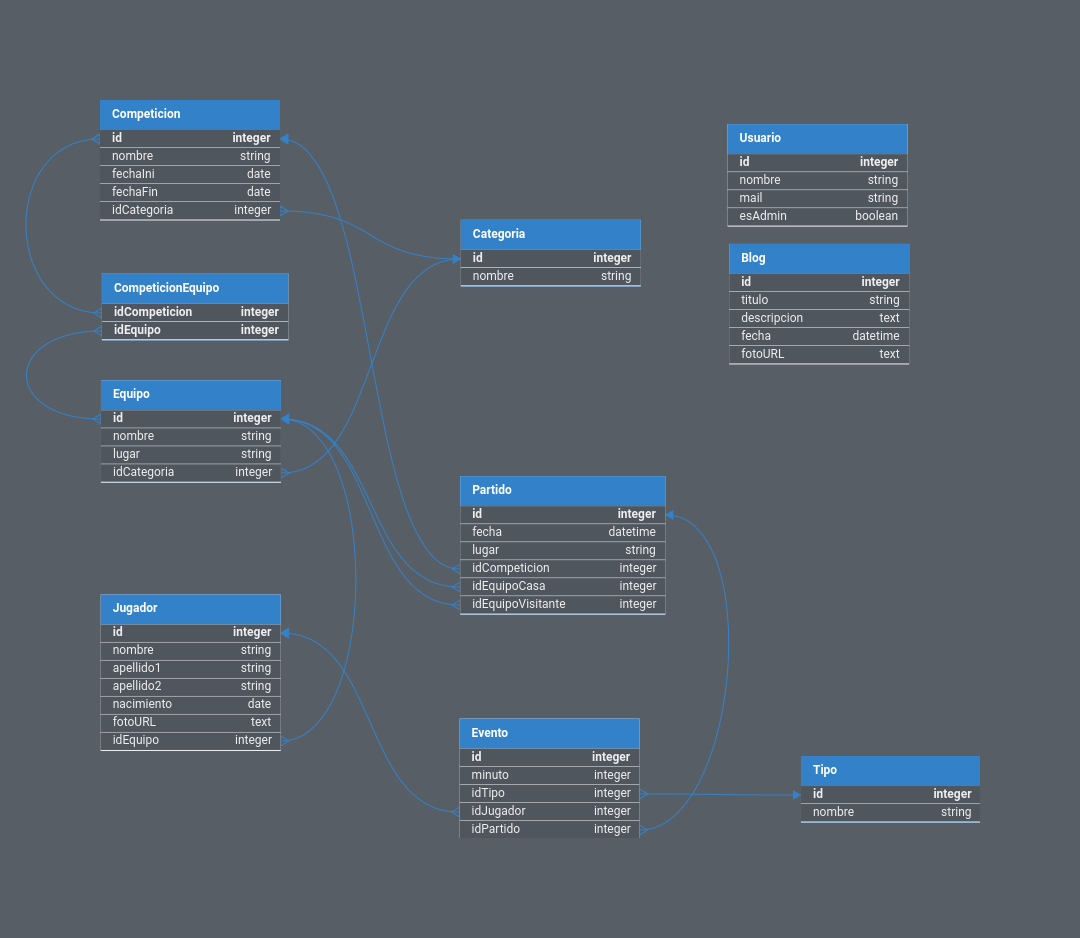
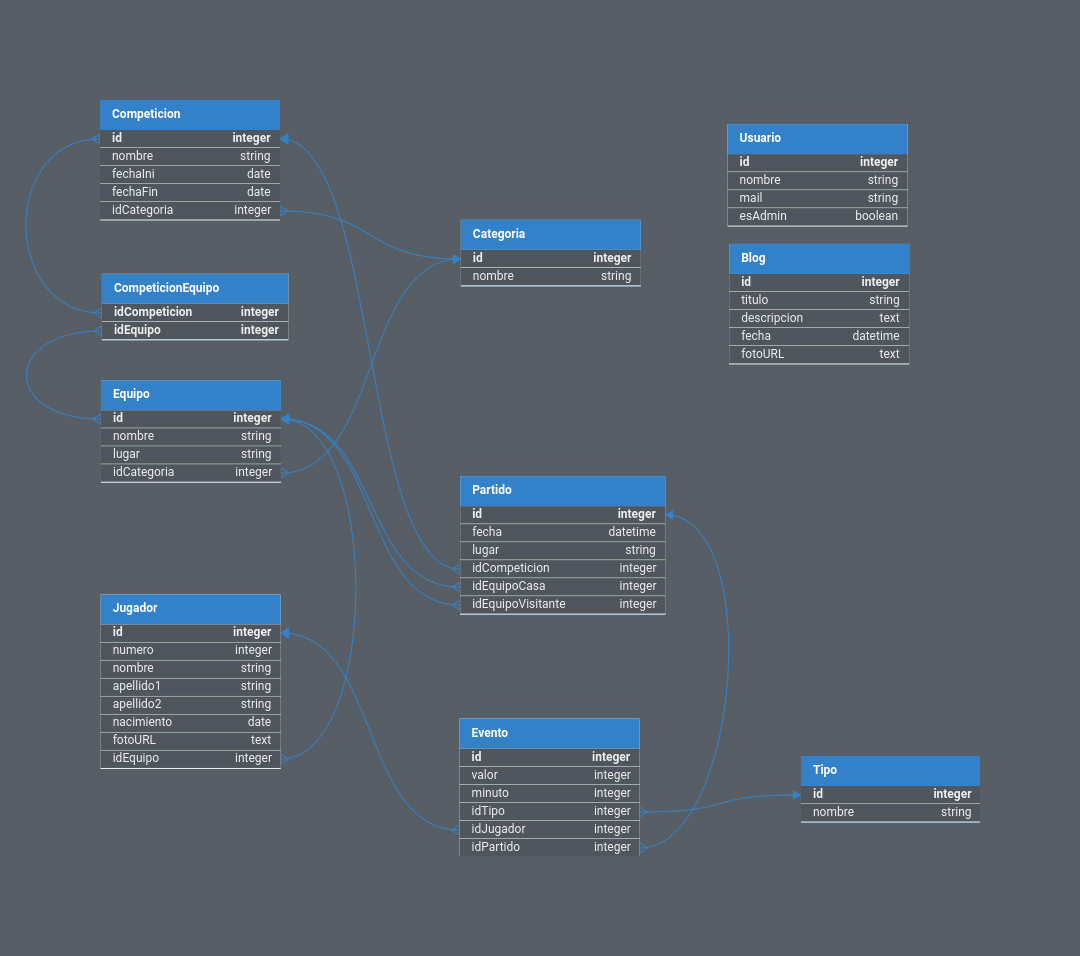
Reconstrucción n4 de la base de datos y avance en el segundo funcional

diff --git a/bd/README.md b/bd/README.md
@@ -1,46 +1,66 @@
 # Base de datos
-Se ha desarrollado una base de datos teniendo en cuenta los requisitos de la aplicación con
-     el primer funcional desarrollado después de hablar con el cliente. Esto incluye un [Modelo E/R](#modelo-er)
-     para poder determinar las relaciones entre todas las entidades, y un [Modelo relacional](#modelo-relacional)
-     en el que se determina el diseño final de la base de datos traduciendo el modelo E/R a tablas y
-     añadiendo los campos a estas.
+
+Se ha desarrollado una base de datos teniendo en cuenta los requisitos de la
+aplicación con el primer funcional desarrollado después de hablar con el
+cliente. Esto incluye un [Modelo E/R](#modelo-er) para poder determinar las
+relaciones entre todas las entidades, y un
+[Modelo relacional](#modelo-relacional) en el que se determina el diseño final
+de la base de datos traduciendo el modelo E/R a tablas y añadiendo los campos a estas.
 
 ## Modelos
 
 ### [Modelo E/R](./design/diagramaERCochinillos.drawio)
-Este modelo se ha desarrollado para observar las relaciones de manera sencilla entre todas las entidades.
-     Empezando con las más sencillas, la entidad **"Entrada"** no tiene relación ninguna ya que esta solo representa
-     las noticias que aparecerán en el blog de la aplicación, así mismo, la entidad **"Usuario"** tampoco tiene relaciones
-     ya que solo se utilizará para que los visitantes de la web se subscriban a un servicio de notificación mediante
-     correos electrónicos de las noticias y futuros eventos.
 
-Después, las entidades más relacionadas empiezan por **"Competición"**, que representa las competiciones que se llevarán
-     a cabo separadas por **"Categorías"** a las deben pertenecer los **"Equipos"** que participen. Dentro de
-     estos **"Equipos"** se encuentran los **"Jugadores"** de la plantilla. Y para conseguir las estadísticas se han creado
-     los **"Partidos"** que se llevarán a cabo en las **"Competiciones"** entre dos **"Equipos"**, y dentro de estos partidos
-     ocurrirán diferentes **"Eventos"** que estarán relacionados con ciertos **"Jugadores"**.
+Este modelo se ha desarrollado para observar las relaciones de manera sencilla
+entre todas las entidades. Empezando con las más sencillas, la entidad
+**"Entrada"** no tiene relación ninguna ya que esta solo representa
+las noticias que aparecerán en el blog de la aplicación, así mismo, la entidad
+**"Usuario"** tampoco tiene relaciones ya que solo se utilizará para que los
+visitantes de la web se subscriban a un servicio de notificación mediante
+correos electrónicos de las noticias y futuros eventos.
+
+Después, las entidades más relacionadas empiezan por **"Competición"**, que
+representa las competiciones que se llevarán
+a cabo separadas por **"Categorías"** a las deben pertenecer los **"Equipos"**
+que participen. Dentro de estos **"Equipos"** se encuentran los **"Jugadores"**
+de la plantilla. Y para conseguir las estadísticas se han creado los
+**"Partidos"** que se llevarán a cabo en las **"Competiciones"** entre dos
+**"Equipos"**, y dentro de estos partidos ocurrirán diferentes
+**"Eventos"** que estarán relacionados con ciertos **"Jugadores"**.
 
 <p align="center" width="100%">
     <img src="./design/diagramaERCochinillos.drawio.png" alt="Modelo E/R" title="Modelo E/R" />
 </p>
 
 ### [Modelo relacional](https://dbdesigner.page.link/EctTiUCBiYPVZTbQA)
+
 El modelo relacional lo he desarrollado mediante la herramienta ["DB designer"](https://erd.dbdesigner.net).
-     Y muestra las siguientes tablas:
-- **Usuario.** Lo único que necesitamos es su nombre para mostrarlo, el email al que enviar los correos y si es admin
-     para que pueda subir entradas al blog.
-- **Blog.** En este insertaremos todas las entradas que dispondrán de un título, una descripción, una imágen y la fecha en
-     la que se subió.
-- **Competición.** Guardaremos el nombre que se mostrará de esta las fechas entre las que se celebra y a qué categoría pertenece.
-- **CompeticionEquipo.** Utilizaremos esta tabla para relacionar a todos los equipos con las competiciones que se llevan a cabo.
+Y muestra las siguientes tablas:
+
+- **Usuario.** Lo único que necesitamos es su nombre para mostrarlo, el email al
+    que enviar los correos y si es admin para que pueda subir entradas al blog.
+- **Blog.** En este insertaremos todas las entradas que dispondrán de un título,
+    una descripción, una imágen y la fecha en la que se subió.
+- **Competición.** Guardaremos el nombre que se mostrará de esta las fechas
+    entre las que se celebra y a qué categoría pertenece.
+- **CompeticionEquipo.** Utilizaremos esta tabla para relacionar a todos los
+    equipos con las competiciones que se llevan a cabo.
 - **Equipo.** En la que guardaremos su nombre, el lugar al que pertenece y su categoría.
 - **Categoría.** Simplemente se guarda el nombre que se mostrará en la página.
-- **Partido.** Se guardará la fecha en el que se discutió, el lugar, a que competición pertenece y los dos equipos que jugaron entre ellos.
-- **Jugador.** Necesitamos su nombre, los dos apellidos, su fecha de nacimiento para poder mostrar su edad, una foto de este y
-     al equipo al que pertenece.
-- **Evento.** Estos serán acciones que pueden suceder en un partido, sucederán en un minuto concreto del partido, serán de un tipo
-     de la tabla de tipos, estará relacionado con un jugador y guardaremos el partido en el que ha sucedido.
-- **Tipo.** En esta se guardaran los diferentes tipos de eventos que pueden suceder en un partido.
+- **Partido.** Se guardará la fecha en el que se discutió, el lugar, a que
+    competición pertenece y los dos equipos que jugaron entre ellos.
+- **Jugador.** Necesitamos su número, nombre, los dos apellidos, su fecha de
+    nacimiento para poder mostrar su edad, una foto de este y al equipo al que pertenece.
+- **Evento.** Estos serán acciones que pueden suceder en un partido, serán de un
+    tipo de la tabla de tipos, estará relacionado con un jugador y
+    guardaremos el partido en el que ha sucedido. Además, dependiendo del tipo
+    se usará el minuto y el valor de diferente manera, en "partido jugado" será
+    "null", en "gol" se apuntará el minuto en el que sucedió, en "tiros recibidos"
+    será el número de tiros que ha recibido el portero apuntado en el valor, en "asistencia"
+    será el id del evento tipo "gol" al que ha asistido en el valor y en "falta"
+    será el minuto en el que ha sucedido y el valor los minutos que ha sido expulsado.
+- **Tipo.** En esta se guardaran los diferentes tipos de eventos que pueden
+    suceder en un partido.
 
 <p align="center" width="100%">
     <img src="./design/diagramaRelacionalCochinillos.png" alt="Modelo relacional" title="Modelo relacional" />

diff --git a/funcionales/segundo-funcional.md b/funcionales/segundo-funcional.md
@@ -1,0 +1,119 @@
+# Segunda versión
+
+La aplicación web contará con un inicio en el que se mostrará información
+sobre el equipo, un apartado de estadísticas de este, un formulario
+en el que se puedan apuntar los visitantes de la página al equipo y
+un blog donde publicar noticias.
+
+## Pantallas
+
+- [Inicio](#inicio)
+  - [Portada](#portada)
+  - [Sobre nosotros](#sobre-nosotros)
+  - [Dónde estamos?](#donde-estamos)
+  - [Noticias](#noticias)
+  - [Conócenos](#conocenos)
+- [Estadísticas](#estadisticas)
+  - [Resúmen](#resumen)
+  - [Partidos](#partidos)
+    - [Listado](#listadoPartidos)
+    - [Detalles](#detallesPartidos)
+  - [Plantilla](#plantilla)
+    - [Listado](#listadoPlantilla)
+    - [Detalles](#detallesDetalles)
+- [Formulario](#formulario)
+- [Blog](#blog)
+
+## Inicio
+
+Esta será la sección inicial de la aplicación, donde mostraremos toda
+la información que podamos a los visitantes de forma resumida.
+
+### Portada
+
+Se mostrará el nombre y logotipo del equipo además de una sencilla pero
+atractiva animación de inicio.
+
+### Sobre nosotros
+
+Se hablará sobre el equipo en un texto resumido.
+
+### Dónde estamos?
+
+Se mostrará un mapa fijo con un punto de interés en el centro señalando
+el polideportivo en el que se llevan a cabo los entrenamientos y si
+se hace click en este se redirigirá a su localización en Google Maps.
+
+### Noticias
+
+Se podrá iterar por las últimas noticias en forma de periódicos uno encima
+de otro, mostrando el título de la noticia, la descripción, la fecha
+de publicación y la imagen relacionada si la tiene. En caso de hacer
+click en este periódico se redirigirá a la noticia en el apartado de
+[Blog](#blog)
+
+### Conócenos
+
+Se mostrarán los trabajadores y organizadores del equipo en unas tarjetas
+que se deslizarán horizontalmente. Estas tarjetas contarán con una
+fotografía del trabajador, su nombre, títulos relacionados y posiblemente
+un teléfono de contacto.
+
+## Estadísticas
+
+Esta será la sección de la aplicacion en la que se podrá observar el
+rendimiento del equipo de forma conjunta e individual.
+
+### Resúmen
+
+En este resúmen se mostrarán los datos más importantes sobre el equipo,
+siendo estos, el logo, el nombre, partidos ganados, partidos perdidos,
+partidos empatados, jugadores destacados, listado de últimos partidos
+,con la categoría y el resultado, y listado de categorías con sus
+posiciones.
+
+### Partidos
+
+- **Listado.**<a name="listadoPartidos"></a> En este se mostrará un listado de todos los partidos en
+  los que ha participado el equipo y datos importantes de estos: fecha y hora, lugar,
+  equipos enfrentados y resultado
+- **Detalles.**<a name="detallesPartidos"></a> En este se mostrarán los detalles del partido seleccionado,
+  fecha y hora, lugar, equipos enfrentados, resultado, listado de eventos,
+  con tipo, jugador y minuto, y listado de jugadores, con su número.
+
+Las estadísticas contarán con los siguientes apartados:
+
+- **Resumen.** En el que se mostrará las estadísticas más importantes.
+- **Partidos.** En el que se listarán los partidos del equipo y se
+  podrán acceder a los detalles de cada uno de ellos.
+- **Plantilla.** En el que se mostrará la plantilla del equipo y
+  las estadísticas de cada jugador.
+
+Posibles estadísticas:
+
+- Partidos jugados
+- Goles
+- Asistencias
+- Faltas
+- Puntos (Goles + Asistencias)
+- Puntos por partido
+- Minutos de sanción (Sumario faltas)
+- Goles por partido
+- Asistencias por partido
+- Totales por temporada
+- Totales histórico
+
+## Formulario
+
+Este será un simple formulario para poder inscribirse al equipo, los
+campos pedidos serán:
+
+- Nombre
+- Apellidos
+- Edad
+- Fotografía
+
+## Blog
+
+El blog consistirá en una plantilla en la que se listen las entradas,
+estas podrán ser gestionadas por los administradores.
